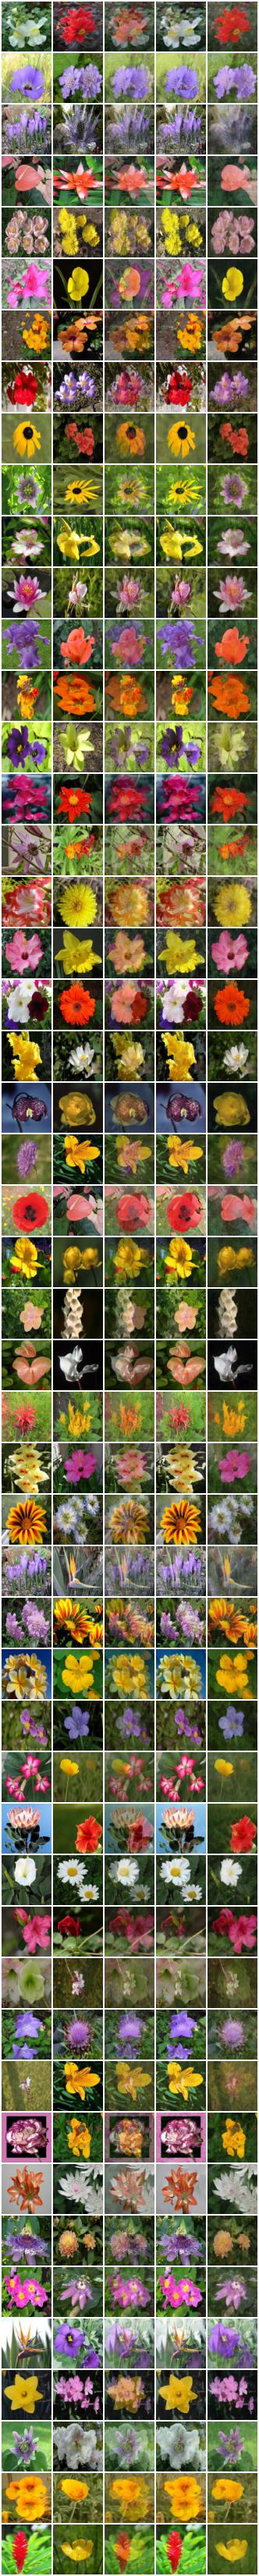
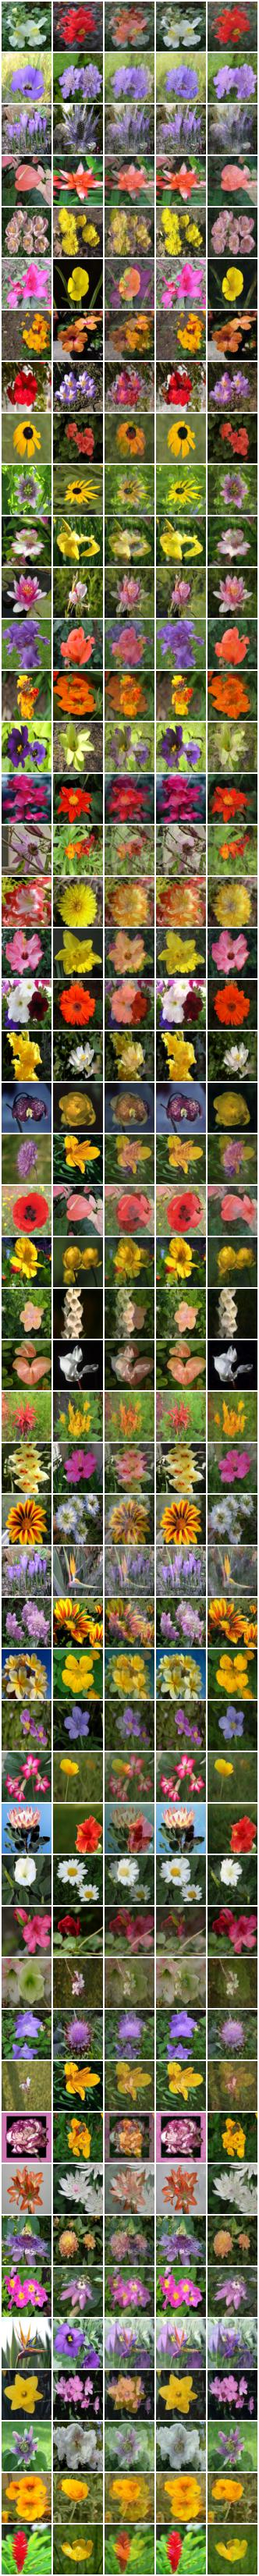
Finish eval

Changed region(s): [[0.6024, 0.8734, 0.7229, 0.9358], [0.7831, 0.9046, 0.9036, 0.9358]]

diff --git a/train_coupled.py b/train_coupled.py
@@ -64,7 +64,18 @@ class ColdDiffusion:
 
         predicted_dark = (mixed_image - (1.0 - alpha_init) * x_t) / alpha_init
         return to_uint8(x_t), to_uint8(predicted_dark)
-    
+
+    def _extract_other_from_average(self, average_image, dominant_image, alpha, dominant_is_first):
+        if not (0.0 < alpha < 1.0):
+            raise ValueError(f"alpha must be in (0, 1) for mathematical extraction, got {alpha}")
+
+        if dominant_is_first:
+            # average = dominant * (1 - alpha) + other * alpha
+            return (average_image - (1.0 - alpha) * dominant_image) / alpha
+
+        # average = other * (1 - alpha) + dominant * alpha
+        return (average_image - alpha * dominant_image) / (1.0 - alpha)
+
     def sample_dual_branch_lpips_switch(self, model, mixed_image, alpha_init=0.5, switch_delay=10):
         n = len(mixed_image)
         init_timestep = math.ceil(alpha_init / self.alteration_per_t)
@@ -75,7 +86,8 @@ class ColdDiffusion:
         lpips_model = self._get_lpips_model()
 
         with torch.no_grad():
-            x_start = mixed_image.to(self.device)
+            average_ref = mixed_image.to(self.device)
+            x_start = average_ref.clone()
 
             t0 = torch.full((n,), init_timestep, device=self.device, dtype=torch.long)
             model_out0 = model(x_start, t0).sample
@@ -84,18 +96,36 @@ class ColdDiffusion:
 
             first_dark_ref = pred_dark_0.detach().clamp(-1, 1)
 
-            # Regular bright branch
-            x_bright = (
-                x_start
-                - self.mix_images(pred_bright_0, pred_dark_0, t0)
-                + self.mix_images(pred_bright_0, pred_dark_0, t0 - 1)
+            # Bright branch:
+            # target = predicted bright from model
+            # auxiliary dark is mathematically extracted from the fixed GT average
+            dark_aux_0 = self._extract_other_from_average(
+                average_image=average_ref,
+                dominant_image=pred_bright_0,
+                alpha=alpha_init,
+                dominant_is_first=True,
             )
 
-            # Dark-dominant branch
+            x_bright = (
+                x_start
+                - self.mix_images(pred_bright_0, dark_aux_0, t0)
+                + self.mix_images(pred_bright_0, dark_aux_0, t0 - 1)
+            )
+
+            # Dark branch:
+            # initial target = predicted dark from model
+            # auxiliary bright is mathematically extracted from the fixed GT average
+            bright_aux_0 = self._extract_other_from_average(
+                average_image=average_ref,
+                dominant_image=pred_dark_0,
+                alpha=alpha_init,
+                dominant_is_first=False,
+            )
+
             x_dark = (
                 x_start
-                - self.mix_images(pred_dark_0, pred_bright_0, t0)
-                + self.mix_images(pred_dark_0, pred_bright_0, t0 - 1)
+                - self.mix_images(pred_dark_0, bright_aux_0, t0)
+                + self.mix_images(pred_dark_0, bright_aux_0, t0 - 1)
             )
 
             switch_detect_step = torch.full((n,), -1, device=self.device, dtype=torch.long)
@@ -104,18 +134,26 @@ class ColdDiffusion:
             for i in reversed(range(1, init_timestep)):
                 t = torch.full((n,), i, device=self.device, dtype=torch.long)
 
-                # Bright branch: always standard
+                # Bright branch:
+                # use predicted bright as target, extract dark mathematically from GT average
                 model_out_bright = model(x_bright, t).sample
                 pred_bright_branch = model_out_bright[:, :3]
-                pred_dark_aux = model_out_bright[:, 3:]
+
+                dark_aux = self._extract_other_from_average(
+                    average_image=average_ref,
+                    dominant_image=pred_bright_branch,
+                    alpha=alpha_init,
+                    dominant_is_first=True,
+                )
 
                 x_bright = (
                     x_bright
-                    - self.mix_images(pred_bright_branch, pred_dark_aux, t)
-                    + self.mix_images(pred_bright_branch, pred_dark_aux, t - 1)
+                    - self.mix_images(pred_bright_branch, dark_aux, t)
+                    + self.mix_images(pred_bright_branch, dark_aux, t - 1)
                 )
 
-                # Dark branch: LPIPS-based switch detection
+                # Dark branch:
+                # detect switch using raw model predictions against first dark prediction
                 model_out_dark = model(x_dark, t).sample
                 pred_first = model_out_dark[:, :3].clamp(-1, 1)
                 pred_second = model_out_dark[:, 3:].clamp(-1, 1)
@@ -134,10 +172,12 @@ class ColdDiffusion:
                     pred_first,
                     pred_second,
                 )
-                bright_aux = torch.where(
-                    switch_active[:, None, None, None],
-                    pred_second,
-                    pred_first,
+
+                bright_aux = self._extract_other_from_average(
+                    average_image=average_ref,
+                    dominant_image=dark_pred,
+                    alpha=alpha_init,
+                    dominant_is_first=False,
                 )
 
                 x_dark = (
@@ -149,7 +189,7 @@ class ColdDiffusion:
         if was_training:
             model.train()
 
-        return to_uint8(x_bright), to_uint8(x_dark)
+        return to_uint8(x_bright), to_uint8(x_dark)         
 
 
 def get_unet(image_size):
@@ -418,7 +458,12 @@ def eval(args):
 
     for bright_images, dark_images in val_dataloader:
         mixed_images = bright_images * (1 - args.alpha_init) + dark_images * args.alpha_init
-        predicted_bright, predicted_dark = diffusion.sample(model, mixed_images, args.alpha_init)
+        predicted_bright, predicted_dark = diffusion.sample_dual_branch_lpips_switch(
+            model,
+            mixed_images,
+            alpha_init=args.alpha_init,
+            switch_delay=10,
+        )	
 
         bright_uint8 = to_uint8(bright_images)
         dark_uint8 = to_uint8(dark_images)
@@ -474,7 +519,7 @@ def eval(args):
             torch.cat(grid_predicted_dark)[:50],
             torch.cat(grid_bright)[:50],
             torch.cat(grid_dark)[:50],
-            os.path.join(base_dir, "samples", "eval", "eval_grid_50.jpg"),
+            os.path.join(base_dir, "samples", "eval", "eval_grid_50_2.jpg"),
             input_images=torch.cat(grid_mixed)[:50],
         )
 
